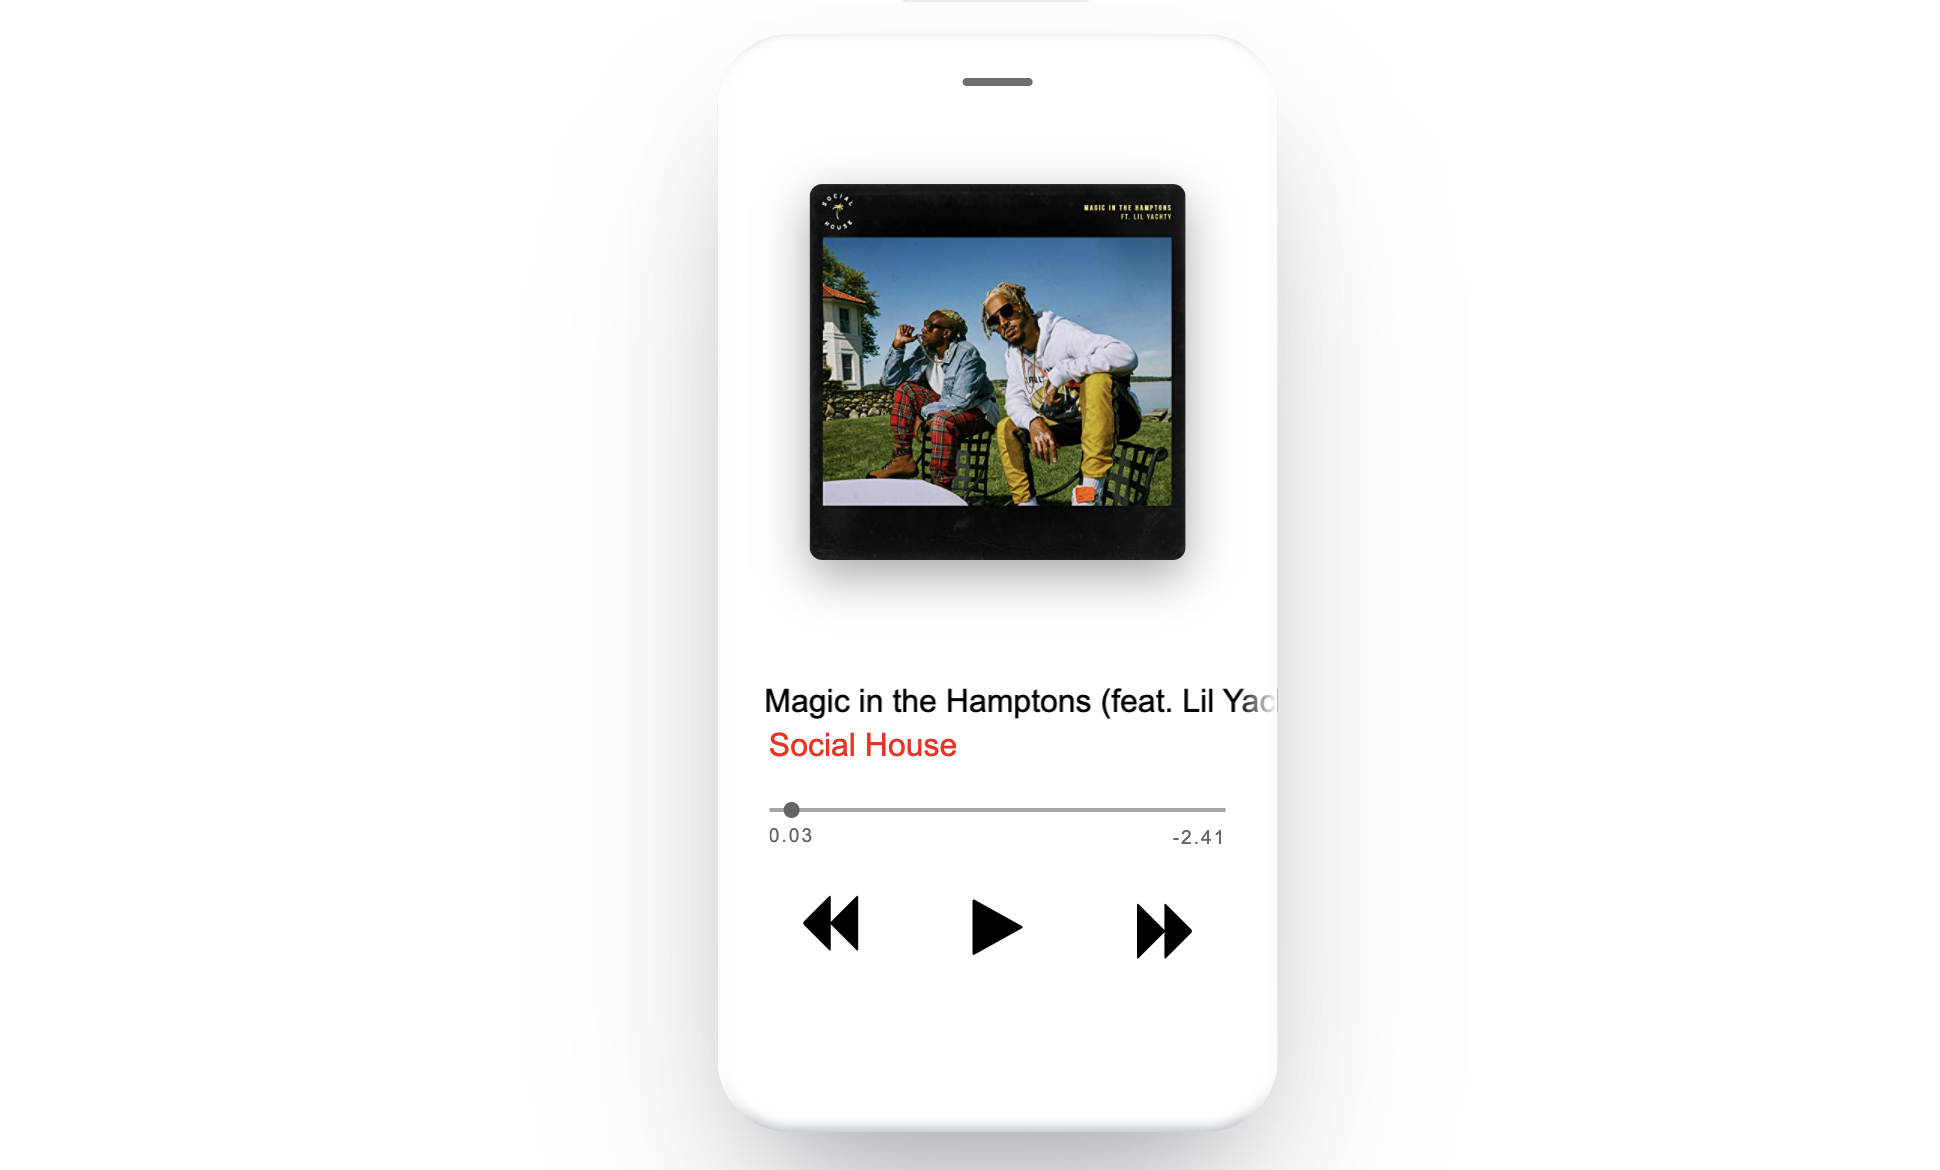
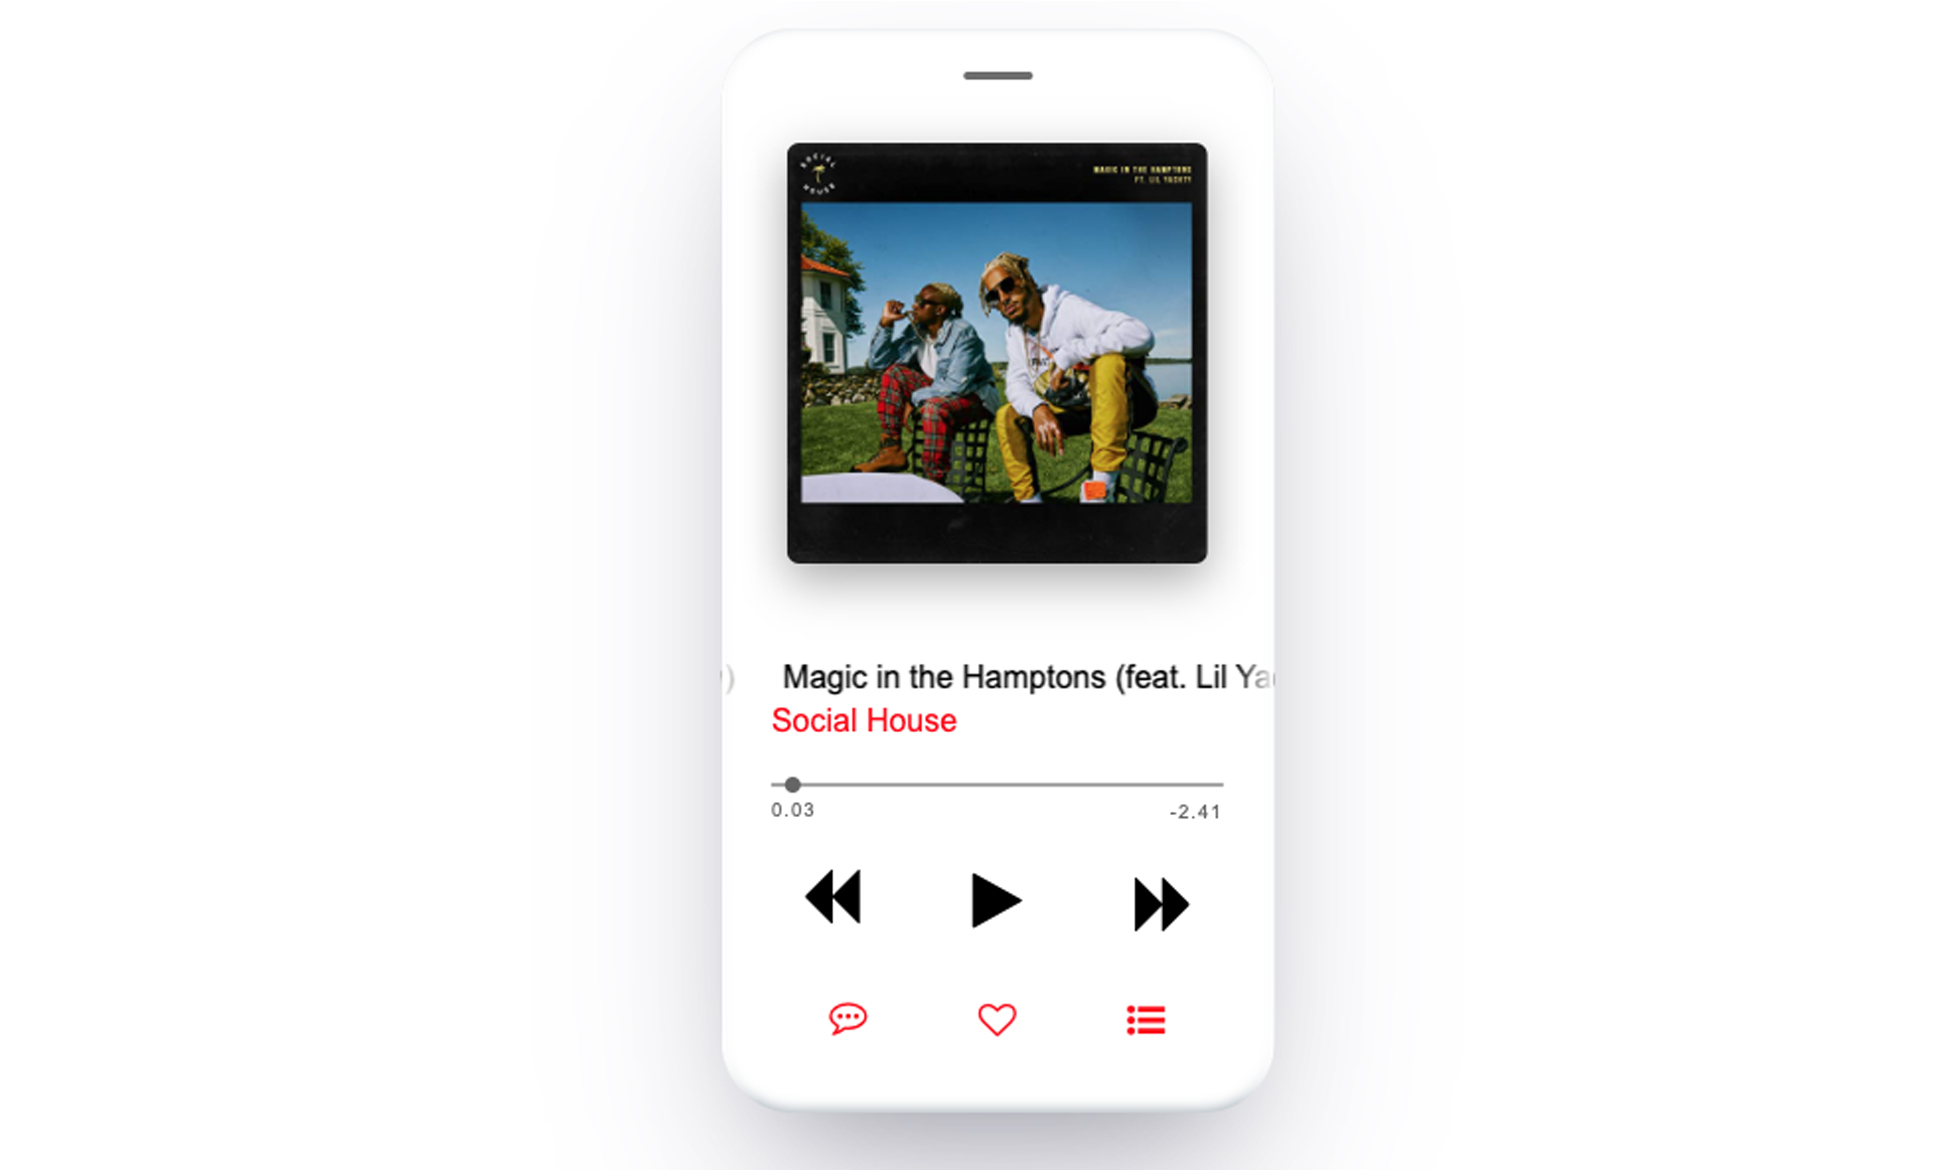
update apple image

diff --git a/projects/apple-music/concept.css b/projects/apple-music/concept.css
@@ -90,6 +90,12 @@
 span:nth-child(2){
   padding-left: 20px;
 }
+span:nth-child(3){
+  padding-left: 20px;
+}
+span:nth-child(4){
+  padding-left: 20px;
+}
 @keyframes slide {
   0% {
     transform: translate(0, 0);
